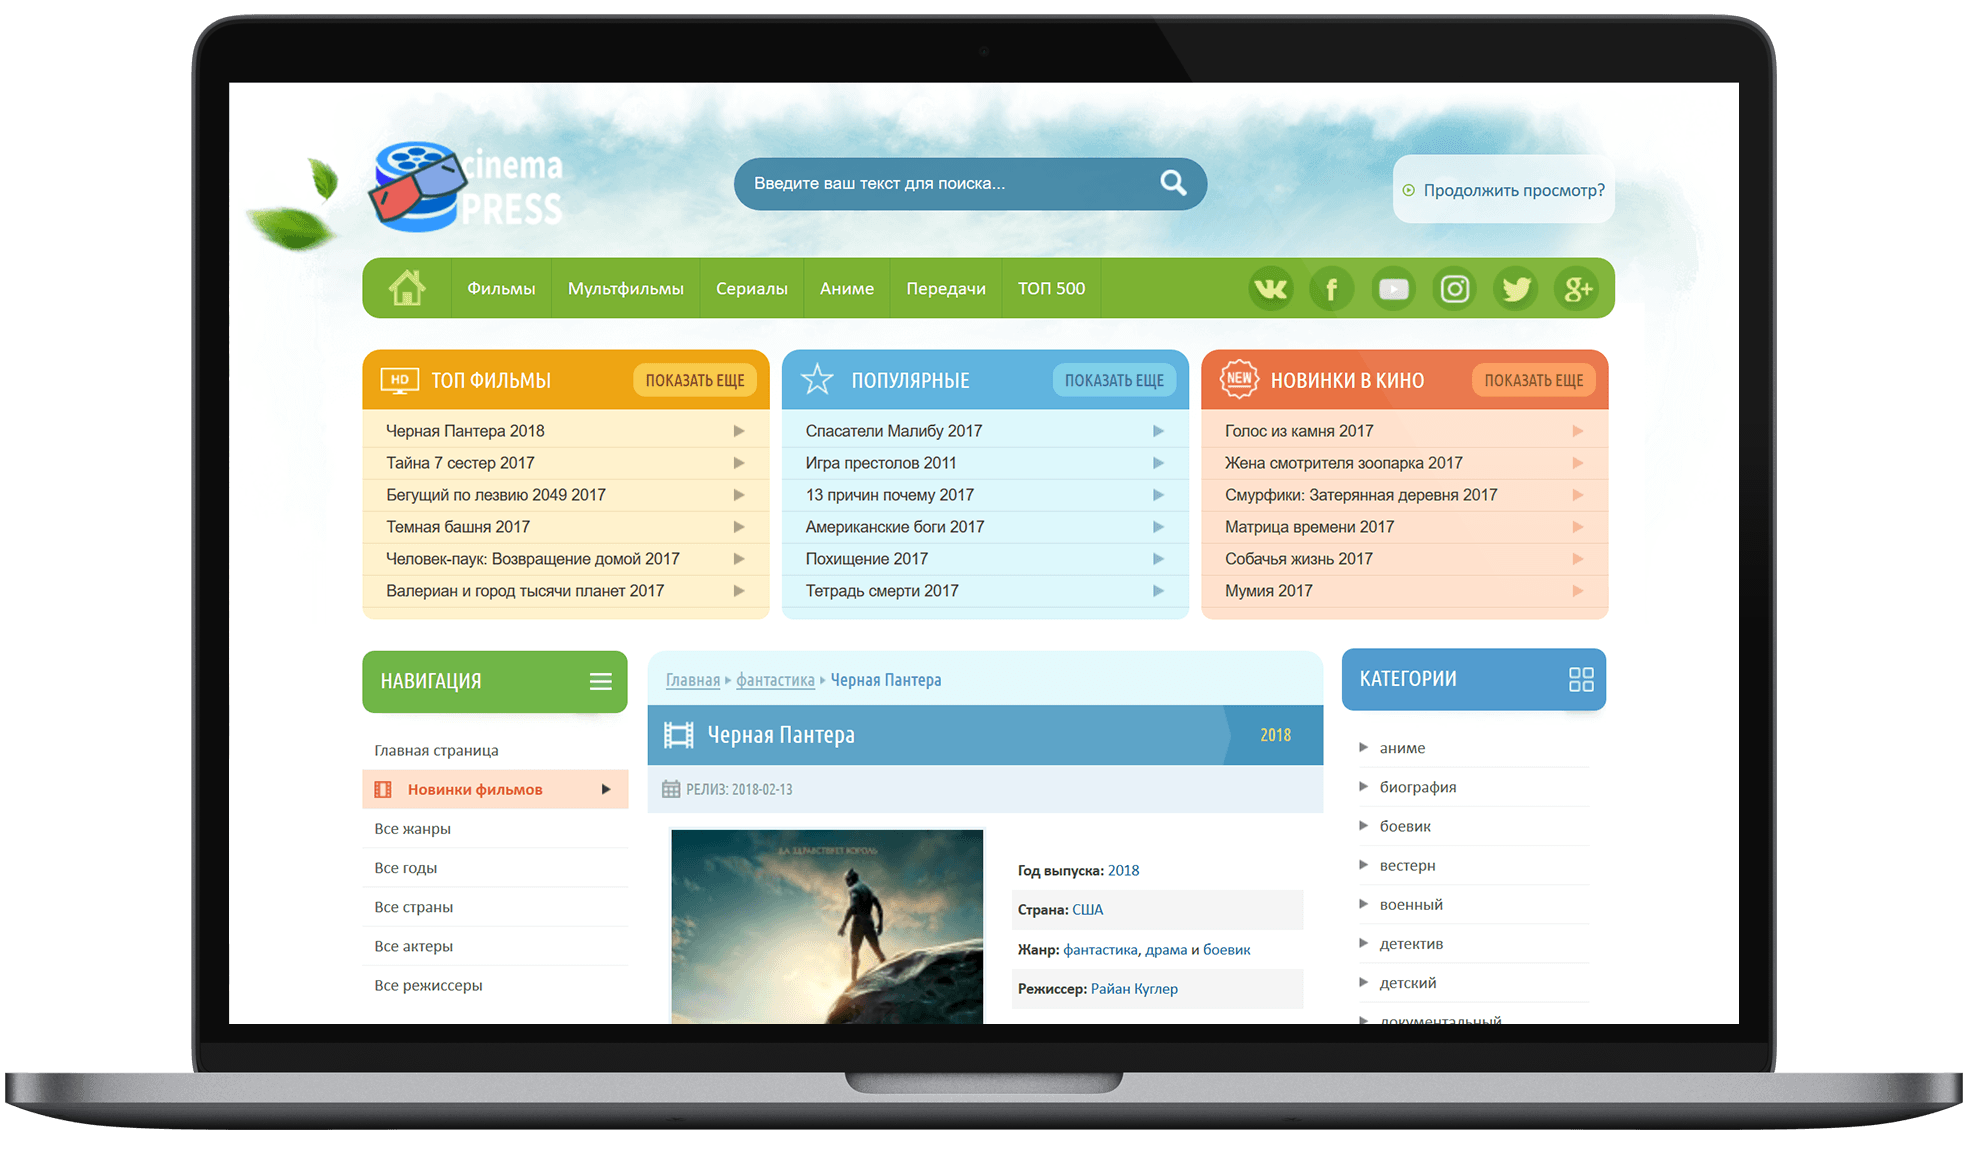
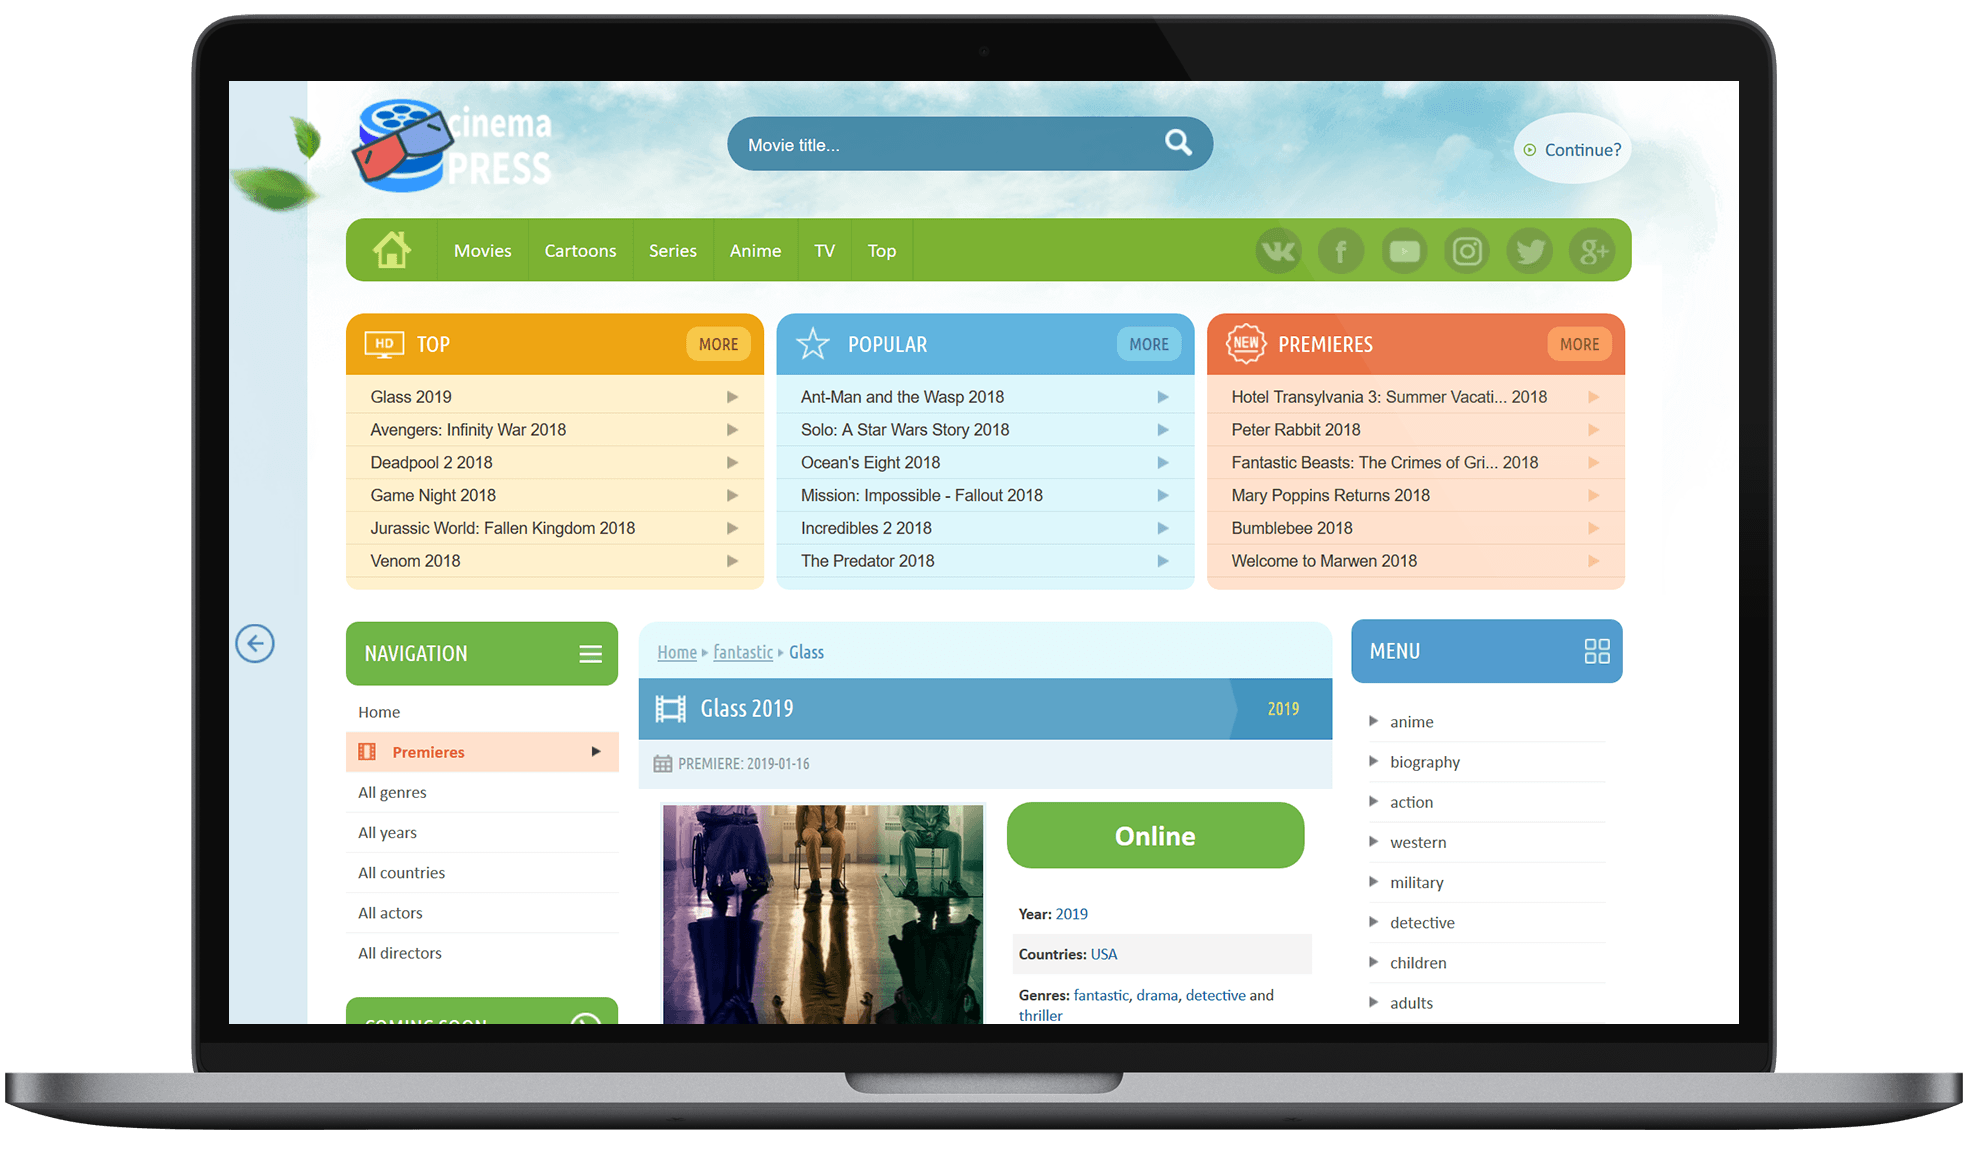
Add translate, new scr

diff --git a/README.md b/README.md
@@ -1,18 +1,29 @@
-# Шаблон «tyrion»
+# Theme «tyrion»
 
-![Шаблон «tyrion» для CinemaPress ACMS](https://raw.githubusercontent.com/CinemaPress/Theme-Tyrion/master/screenshot.png "Шаблон «tyrion» для CinemaPress ACMS")
+![Theme «tyrion» for CinemaPress ACMS](https://raw.githubusercontent.com/CinemaPress/Theme-Tyrion/master/screenshot.png "Theme «tyrion» for CinemaPress ACMS")
 
-:art: Шаблон «tyrion» для CinemaPress ACMS
+:art: Theme «tyrion» for CinemaPress ACMS
 
 - [Tyrion.CinemaPress.org](http://Tyrion.CinemaPress.org/)
 
-## Установка
+## How to install?
+1. Download [GitHub](https://github.com/CinemaPress/Theme-Tyrion/archive/master.zip) or [GitLab](https://gitlab.com/CinemaPress/Theme-Tyrion/repository/archive.zip) or [BitBucket](https://bitbucket.org/cinemapress/theme-tyrion/get/master.zip) or [Coding](https://coding.net/u/CinemaPress/p/Theme-Tyrion/git/archive/master.zip)
+2. Unpack the archive and rename the folder to **tyrion**
+3. Folder **tyrion** send to server in folder **themes**
+4. Change the name of the theme in the admin panel to **tyrion**
+
+## Installation via terminal
+```
+~# wget cinemapress.org/i -qO i && chmod +x i && ./i 3
+```
+
+## Как установить?
 1. Скачать архив с [GitHub](https://github.com/CinemaPress/Theme-Tyrion/archive/master.zip) или [GitLab](https://gitlab.com/CinemaPress/Theme-Tyrion/repository/archive.zip) или [BitBucket](https://bitbucket.org/cinemapress/theme-tyrion/get/master.zip) или [Coding](https://coding.net/u/CinemaPress/p/Theme-Tyrion/git/archive/master.zip)
 2. Распаковать архив и переименовать папку в **tyrion**
 3. Папку **tyrion** отправить на сервер в папку **themes**
 4. Изменить название темы в админ-панели на **tyrion**
 
-## Установка через установщик тем CinemaPress ACMS
+## Установка через терминал
 ```
 ~# wget cinemapress.org/i -qO i && chmod +x i && ./i 3
 ```
